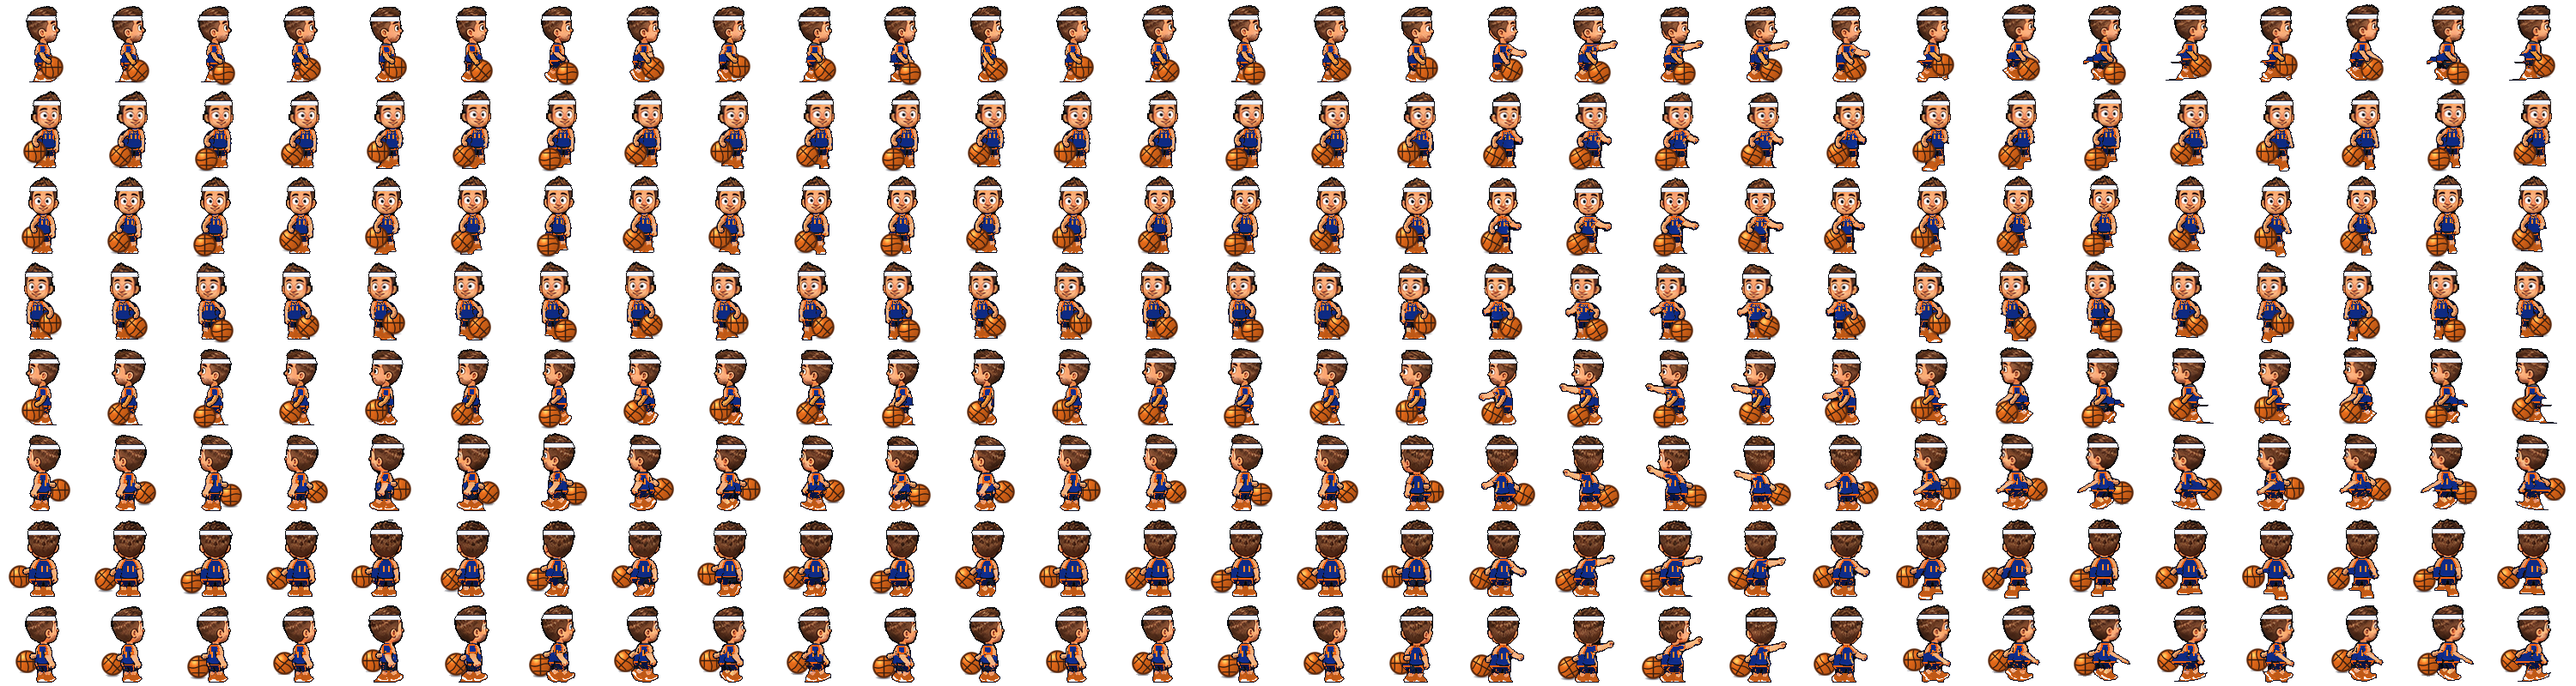
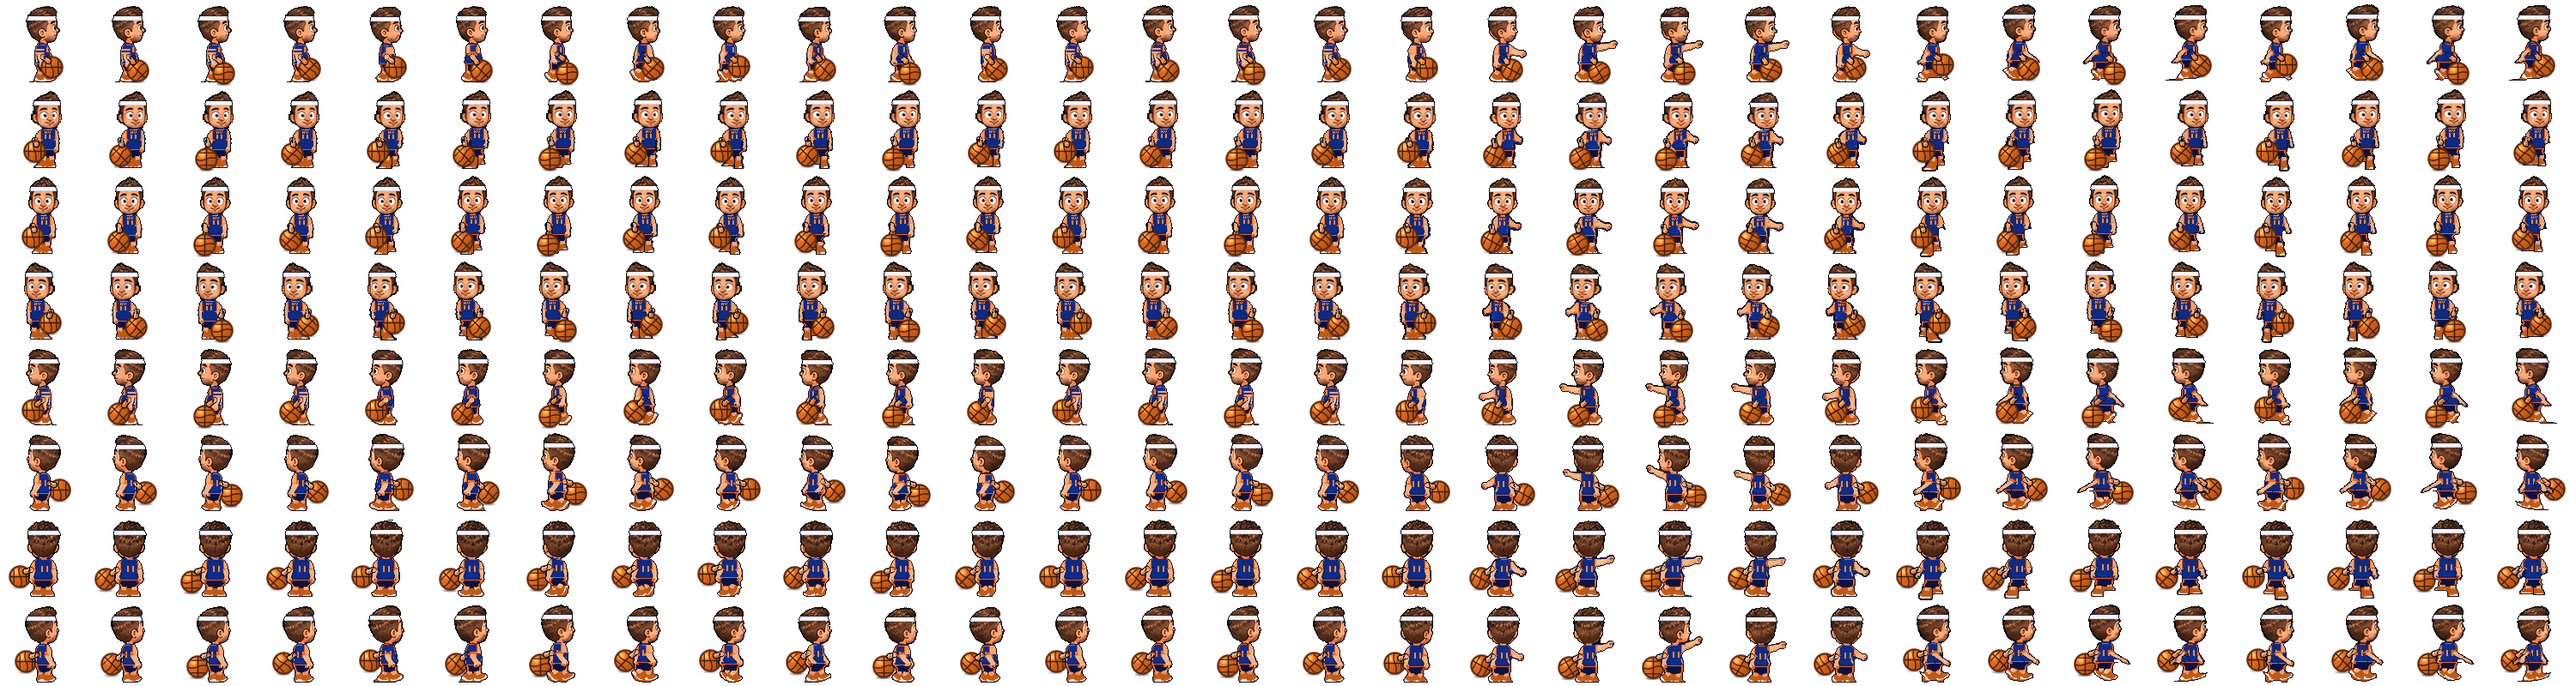
Keep James's full silhouette and recolor the jersey in place.
Side and diagonal frames were losing the waist where the dribble pass
erased body pixels and the tank trim shaved the shirt down to a sliver.
Every frame now starts from that base James sprite, recolors it, and
only draws the ball and dribbling forearm on top.

diff --git a/phaser-tag-client/tools/make_basketball_skin.py b/phaser-tag-client/tools/make_basketball_skin.py
@@ -8,28 +8,26 @@ Same columns, rows and animation ranges as kid.png. Frames are padded
 (PAD_SIDE each side so the ball never clips the cell). Feet stay on the
 same row as James (see src/skins.ts).
 
-Per frame:
-  1. T-shirt -> sleeveless navy tank with orange neck, armhole and hem
-     trim; bare shoulders. Front views get an orange NEW YORK wordmark
-     and number 11, back views a larger 11, profiles a 1 on the facing flank;
-  2. shorts -> navy with an orange side stripe. Hips, shorts, legs
-     and shoes are the base James pixels for that same frame, recolored,
-     so the leg cycle matches him;
-  3. both arms stay bare skin, the same tone as James;
-  4. white headband across the forehead (wraps the hair on back views);
-  5. sneakers -> orange with a white sole, side stripe and toe;
-  6. an orange basketball with the original round seam pattern, dribbled
-     on every frame. It stays a circle (no squash). Seams are pre-rendered
-     at a few rotations so the spin stays crisp. The ball stays in front
-     of him along the way he faces, close to the dribbling-side foot:
-     lower on screen when he faces the camera, just ahead of the front
-     foot in profile, and farther from the camera (drawn behind the body)
-     when he faces away. One arm hangs from that shoulder and dribbles.
-     The tagging arm stays bare skin and still tags.
+Per frame the full base James sprite is recolored in place. His silhouette
+is never cut: torso, waist, hips, legs, feet and both arms stay, and every
+pixel that is opaque on James stays opaque here.
 
-Face, hair and neck (under the headband) are James's. Both arms are bare
-skin. The dribbling arm is one tapered limb hanging at his side, with
-the hand between the hip and the knee.
+  1. T-shirt -> sleeveless navy tank with orange neck, armhole and hem
+     trim; the arms stay bare skin. Front views get an orange NEW YORK
+     wordmark and number 11, back views a larger 11, profiles a 1 on the
+     facing flank;
+  2. shorts -> navy with an orange side stripe;
+  3. sneakers -> orange with a white sole;
+  4. white headband across the forehead (wraps the hair on back views);
+  5. an orange basketball, still a circle, dribbled on every frame, plus
+     the dribbling hand and forearm drawn on top of that silhouette.
+     Seams are pre-rendered at a few rotations so the spin stays crisp.
+     The ball stays in front of him along the way he faces: lower on
+     screen when he faces the camera, just ahead of the front foot in
+     profile, and behind the body when he faces away.
+
+Face, hair and neck (under the headband) are James's. Nothing erases a
+body pixel to make room for the ball or the dribble.
 
 Requires: Python 3 + Pillow + numpy.  Usage:
     python3 tools/make_basketball_skin.py [--preview /tmp/basketball_preview.png]
@@ -357,34 +355,63 @@ def _sample_skin(f: np.ndarray, g: Geometry) -> np.ndarray:
     return np.median(samples, axis=0)
 
 
-def _sleeve_caps(jersey: np.ndarray, g: Geometry) -> np.ndarray:
-    """Outer shoulder of the t-shirt. A tank leaves that as bare skin.
+def _torso_column(jersey: np.ndarray, g: Geometry) -> tuple[int, int] | None:
+    """X span of the shirt below the shoulders. That column is the body."""
+    h = jersey.shape[0]
+    lefts, rights = [], []
+    y0 = int(g.neck) + 12
+    y1 = int(g.hem) - 8
+    for y in range(max(0, y0), min(h, y1)):
+        xs = np.nonzero(jersey[y])[0]
+        if len(xs) < 6:
+            continue
+        best = None
+        start = 0
+        splits = list(np.where(np.diff(xs) > 2)[0]) + [len(xs) - 1]
+        for b in splits:
+            run = xs[start:int(b) + 1]
+            start = int(b) + 1
+            if best is None or len(run) > len(best):
+                best = run
+        if best is None or len(best) < 6:
+            continue
+        lefts.append(int(best[0]))
+        rights.append(int(best[-1]))
+    if not lefts:
+        return None
+    return int(np.median(lefts)), int(np.median(rights))
 
-    The center of each shoulder row stays navy (the strap). The pixels
-    out toward the arm become the armhole.
+
+def _sleeve_caps(jersey: np.ndarray, g: Geometry) -> np.ndarray:
+    """Bare skin only where a sleeve sticks out past the torso.
+
+    A side or diagonal shirt is the torso itself. Shaving its edges
+    leaves a navy sliver and the midsection looks cut out.
     """
     h, w = jersey.shape
     cap = np.zeros((h, w), dtype=bool)
-    cx = float(g.head_cx)
+    column = _torso_column(jersey, g)
+    if column is None:
+        return cap
+    torso_lo, torso_hi = column
     y0 = int(g.neck) + 2
     y1 = int(g.neck) + 13
     for y in range(max(0, y0), min(h, y1)):
         xs = np.nonzero(jersey[y])[0]
-        if len(xs) < 10:
+        if len(xs) < 8:
             continue
-        width = int(xs.max() - xs.min())
-        cut = 4 if width >= 16 else (3 if width >= 12 else 2)
-        left = min(int(xs.min()) + cut, int(cx) - 4)
-        right = max(int(xs.max()) - cut, int(cx) + 4)
-        if right - left < 6:
+        outside = (xs < torso_lo) | (xs > torso_hi)
+        if not outside.any():
             continue
-        cap[y, xs[xs < left]] = True
-        cap[y, xs[xs > right]] = True
+        # keep a solid chest; a row that would lose it is the body, not a sleeve
+        if int((~outside).sum()) < 8:
+            continue
+        cap[y, xs[outside]] = True
     return cap
 
 
 def _armhole_edge(jersey: np.ndarray, g: Geometry) -> np.ndarray:
-    """Orange trim down both armholes, from the strap to the armpit."""
+    """One pixel of orange where the tank meets the arm, not a band across the chest."""
     h, _w = jersey.shape
     edge = np.zeros_like(jersey)
     y0 = int(g.neck) + 2
@@ -395,9 +422,6 @@ def _armhole_edge(jersey: np.ndarray, g: Geometry) -> np.ndarray:
             continue
         edge[y, int(xs[0])] = True
         edge[y, int(xs[-1])] = True
-        if len(xs) > 8:
-            edge[y, int(xs[1])] = True
-            edge[y, int(xs[-2])] = True
     return edge
 
 
@@ -453,7 +477,10 @@ def paint_uniform(f: np.ndarray, g: Geometry, direction: str) -> tuple[np.ndarra
     outline = a & (L < 42)
 
     waist = g.hem - 9
-    clothes = a & (yy > g.neck) & ~sk & ~outline & ~hands
+    # dark shirt and shorts pixels are still cloth. The outline test used
+    # to drop them, and on a side view the whole short then stayed James's
+    # muddy grey instead of navy. The rim is inked afterwards.
+    clothes = a & (yy > g.neck) & ~sk & ~hands
     jersey = clothes & (yy <= waist + 1)
     # sleeveless: the outer shoulder of the tee is skin, not a sleeve cap
     caps = _sleeve_caps(jersey, g)
@@ -482,10 +509,11 @@ def paint_uniform(f: np.ndarray, g: Geometry, direction: str) -> tuple[np.ndarra
     inner = ~rim
     jtop, jbot = torso_rows(jersey & inner)
     if jtop is not None:
-        neck = jersey & inner & (yy <= jtop + 1) & (yy > g.neck + 1)
-        # a shallow scoop in the center of the neckline
-        scoop = jersey & inner & (yy == jtop + 2) & (np.abs(xx - g.head_cx) <= 4)
-        hem = jersey & inner & (yy >= jbot - 1)
+        # one row of collar and one row of hem. A second row of orange
+        # across a side-view chest reads as the jersey being missing.
+        neck = jersey & inner & (yy == jtop) & (yy > g.neck + 1)
+        scoop = jersey & inner & (yy == jtop + 1) & (np.abs(xx - g.head_cx) <= 3)
+        hem = jersey & inner & (yy == jbot)
         rgb = np.where((neck | scoop)[..., None], ORANGE, rgb)
         rgb = np.where(hem[..., None], ORANGE, rgb)
     # armholes: both edges of the tank, plus where an arm leaves the shirt
@@ -960,14 +988,25 @@ def _arm_samples(shoulder, elbow, hand, n: int = 26):
 
 
 def draw_dribble_arm(rgba: np.ndarray, g: Geometry, direction: str,
-                     shoulder, elbow, hand) -> None:
-    """One continuous tapered arm: filled, antialiased, then outlined.
+                     shoulder, elbow, hand, forearm_only: bool = False) -> None:
+    """Tapered skin limb drawn on top of the body. Nothing underneath is erased.
 
-    Bare skin, same as the other arm. The mitt is the rounded end of the
-    same shape, not a separate circle.
+    forearm_only draws the hand and forearm (elbow to mitt). James's own
+    upper arm stays where his frame put it.
     """
     h, w = rgba.shape[:2]
-    pts, frac, total = _arm_samples(shoulder, elbow, hand)
+    if forearm_only:
+        p0 = np.array(elbow, dtype=np.float64)
+        p2 = np.array(hand, dtype=np.float64)
+        t = np.linspace(0.0, 1.0, 18)
+        pts = (1.0 - t)[:, None] * p0 + t[:, None] * p2
+        step = np.hypot(np.diff(pts[:, 0]), np.diff(pts[:, 1]))
+        dist = np.concatenate([[0.0], np.cumsum(step)])
+        total = float(dist[-1]) or 1.0
+        # the forearm half of the taper, widening into the mitt at the end
+        frac = 0.42 + 0.58 * (dist / total)
+    else:
+        pts, frac, total = _arm_samples(shoulder, elbow, hand)
     # overlap the shirt so the sleeve grows out of the armhole
     sx, sy = shoulder
     Y, X = np.mgrid[0:h, 0:w]
@@ -1005,10 +1044,15 @@ def draw_dribble_arm(rgba: np.ndarray, g: Geometry, direction: str,
     layer[aa & below, :3] = (INK / 255.0) * cover[..., None]
     layer[aa & below, 3] = cover
 
-    # tuck the round start of the sleeve back under the jersey
+    # the root sits under the jersey so the limb grows out of the body
+    # instead of a floating cap. Those pixels are his, put back as they were.
     base = premul(rgba)
     tucked = to_u8(over(base, layer))
-    near = (np.hypot(X - sx, Y - sy) <= 5.2) & (Y <= sy + 1.5) & (rgba[..., 3] > 200)
+    if forearm_only:
+        ex, ey = elbow
+        near = (np.hypot(X - ex, Y - ey) <= 3.0) & (rgba[..., 3] > 200)
+    else:
+        near = (np.hypot(X - sx, Y - sy) <= 5.2) & (Y <= sy + 1.5) & (rgba[..., 3] > 200)
     tucked[near] = rgba[near]
     rgba[...] = tucked
 
@@ -1662,15 +1706,28 @@ def baller(frame: np.ndarray, direction: str, anim: str, index: int) -> np.ndarr
     return merged
 
 
+def _alpha_lost(src: np.ndarray, merged: np.ndarray) -> int:
+    """Opaque James pixels that Basketball made see-through."""
+    src_a = src[..., 3]
+    out_a = merged[..., 3]
+    missing = (src_a > 40) & (out_a <= 40)
+    weak = (src_a >= 200) & (out_a < 200)
+    return int(missing.sum() + weak.sum())
+
+
 def compose(frame: np.ndarray, direction: str, anim: str, index: int):
-    """Lower body copied from this James frame, tank and arms composited on top."""
+    """Recolor this James frame in place, then draw the ball and forearm on top.
+
+    No body pixel is erased. `kept` is James's own opaque mask, and the
+    returned hole count is how many of those pixels lost their alpha.
+    """
     src = pad_frame(frame)
     if not alpha_mask(src).any():
         return src, np.zeros(src.shape[:2], dtype=bool), 0, 0
     g0 = Geometry(src)
-    prepared, kept = prepare_james(src, g0, direction)
-    body, _chest, _hands = paint_uniform(prepared, Geometry(prepared), direction)
-    # the copied body stays fully opaque. Recolor never opens a pixel.
+    body, _chest, _hands = paint_uniform(src, g0, direction)
+    # recolor may only add opacity. His silhouette is the mask we keep.
+    kept = src[..., 3] > 40
     body[kept, 3] = 255
     shoulder, elbow, hand, bx, by, t = _pose(body, g0, direction, anim, index)
     gx, gy, behind = bx, float(min(by + BALL_R, 99.0)), direction in BACK
@@ -1678,35 +1735,20 @@ def compose(frame: np.ndarray, direction: str, anim: str, index: int):
     ball = np.zeros_like(shadow)
     _paste(ball, ball_sprite(spin_deg(anim, index)), bx, by)
     if behind:
+        # the ball is farther from the camera; the body covers it.
+        # the dribbling forearm stays on top of that silhouette.
         solid = body.copy()
-        solid[solid[..., 3] > 40, 3] = 255
-        under = to_u8(over(over(shadow, ball), premul(solid)))
-        merged = under.copy()
-        draw_dribble_arm(merged, g0, direction, shoulder, elbow, hand)
-        merged = clear_waist_fringe(merged)
-        _occlude_reach(merged, solid, hand[0], hand[1])
+        solid[kept, 3] = 255
+        merged = to_u8(over(over(shadow, ball), premul(solid)))
     else:
         merged = to_u8(over(premul(body), over(shadow, ball)))
-        draw_dribble_arm(merged, g0, direction, shoulder, elbow, hand)
-    h, w = merged.shape[:2]
-    yy, xx = np.mgrid[0:h, 0:w]
-    # the pre-rendered ball is a hair wider than the disc the pose uses
-    ball_zone = (xx - bx) ** 2 + (yy - by) ** 2 <= (BALL_R + 5.0) ** 2
-    pose = (
-        _zone_arm(h, w, shoulder, elbow, hand, pad=2.4)
-        | ball_zone
-        | _zone_shadow(h, w, gx, gy)
-    )
-    # crumbs of the old arm outline, outside his body. Not a repaint of the legs.
-    shell = _dilate(kept, 1)
-    stray = (merged[..., 3] > 40) & ~shell & ~pose
-    if stray.any():
+    draw_dribble_arm(merged, g0, direction, shoulder, elbow, hand, forearm_only=True)
+    lost = kept & (merged[..., 3] <= 40)
+    if lost.any():
         merged = merged.copy()
-        merged[stray] = 0
-    stray = (merged[..., 3] > 40) & ~shell & ~pose
-    merged = _seal_body_slits(merged, g0.neck)
-    holes = silhouette_faults(merged, kept, g0.neck)
-    return merged, kept, int(holes.sum()), int(stray.sum())
+        merged[lost] = body[lost]
+        merged[lost, 3] = 255
+    return merged, kept, _alpha_lost(src, merged), 0
 
 
 def _seal_body_slits(merged: np.ndarray, neck: int) -> np.ndarray:
@@ -1813,17 +1855,20 @@ def main():
             fr = src[r * fh:(r + 1) * fh, c * fw:(c + 1) * fw]
             cell, _kept, missing, stray = compose(fr, direction, anim, index)
             out[r * ofh:(r + 1) * ofh, c * ofw:(c + 1) * ofw] = cell
-            if missing or stray:
+            src_pad = pad_frame(fr)
+            # every opaque James pixel is still opaque, frame for frame
+            gap = _alpha_lost(src_pad, cell)
+            if gap or missing or stray:
                 problems.append(
                     f"{direction} {anim} {index} (col {c}): "
-                    f"{missing} see-through px inside the body, {stray} stray px"
+                    f"{gap} James pixels lost their alpha"
                 )
     if problems:
-        print("body silhouette check failed:")
+        print("alpha mask check failed:")
         for line in problems:
             print(" ", line)
         raise SystemExit(1)
-    print(f"body silhouette check ok ({len(dirs) * cols} frames)")
+    print(f"alpha mask check ok ({len(dirs) * cols} frames)")
     Image.fromarray(out).save(ASSETS / "kid_basketball.png", optimize=True)
     bb = dict(meta)
     bb["image"] = "kid_basketball.png"

diff --git a/phaser-tag-client/README.md b/phaser-tag-client/README.md
@@ -334,12 +334,13 @@ skin carries its own frame size and feet line. Animation keys are
   y = 96; 10px each side holds the ball). Generated from `kid.png` by
   `tools/make_basketball_skin.py`. Navy sleeveless jersey with orange trim, an NY
   wordmark and number 11 on the front (11 on the back), white headband,
-  bare arms, and orange sneakers. An
-  orange basketball is dribbled in every animation. The ball stays a
+  bare arms, and orange sneakers. The body is James's own silhouette
+  recolored in place, so side and diagonal frames keep his waist and legs.
+  An orange basketball is dribbled in every animation. The ball stays a
   circle and leads him in the direction he faces, close to the
-  dribbling-side foot (behind the body when he faces away). One arm
-  hangs at his side and flicks the ball; the seams turn a little each
-  bounce. Footsteps
+  dribbling-side foot (behind the body when he faces away). His dribbling
+  hand and forearm sit over that silhouette and flick the ball; the seams
+  turn a little each bounce. Footsteps
   are a gym-floor sneaker squeak (`basketballStep`). Re-run:
   `python3 tools/make_basketball_skin.py [--preview /tmp/basketball.png]`.
 
